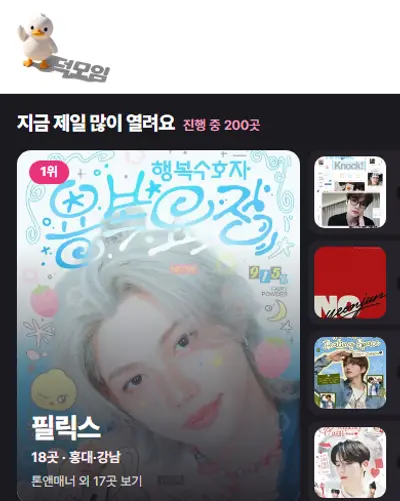
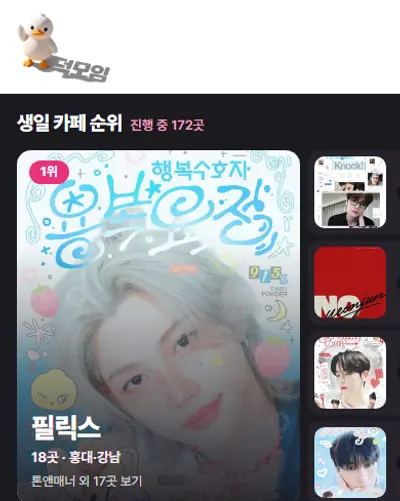
채팅 입력칸을 화면 맨 아래에 붙이고, 자기 댓글의 초대를 막는다
말이 쌓일수록 입력칸이 아래로 밀려났다. `sticky` 를 걸어뒀는데 아무
일도 안 하고 있었다 — 스크롤 컨테이너가 문서 자체라 붙을 자리가 없다.

PageShell 에 `fill` 을 뒀다. 켜면 화면 높이에 가두고 안쪽 한 칸만
스크롤시킨다. 채팅에서는 말풍선 칸(.croom)이 그 한 칸이고, 입력칸은
그냥 마지막 칸으로 두면 늘 맨 아래에 남는다. sticky 는 뗐다 — 하는
일 없이 z-index 만 남아 시트 위로 뜨는 사고를 만든다.

자기 댓글에도 「초대」 가 붙어 있었다. 자기를 자기 방에 부를 수는 없다.
서버가 CHAT 액션을 내려주기 전까지는 EDIT 이 오는 것을 내 댓글로 보고
막는다.

Changed region(s): [[0.78, 0.6587, 0.99, 1.0], [0.03, 0.2096, 0.66, 0.2695]]

diff --git a/src/app/ui.css b/src/app/ui.css
@@ -3388,6 +3388,31 @@
   min-height: 46vh;
 }
 
+/* 화면 높이에 가둔 껍데기. 채팅이 쓴다.
+
+   기본 shell 은 min-height 라 내용만큼 늘어나고, 그러면 문서 전체가
+   스크롤 컨테이너가 된다. 그 안에서 입력칸을 sticky 로 붙여도 말이
+   쌓일수록 아래로 밀려난다. 높이를 못박아 안쪽 한 칸만 스크롤시킨다 */
+.shell--fill { height: 100dvh; min-height: 0; overflow: hidden; }
+.shell--fill .shell__body {
+  flex: 1;
+  min-height: 0;
+  display: flex;
+  flex-direction: column;
+  overflow: hidden;
+}
+/* 스크롤되는 것은 말풍선 칸 하나뿐이다 */
+.shell--fill .croom {
+  flex: 1;
+  min-height: 0;
+  overflow-y: auto;
+  /* 손을 떼도 관성 스크롤이 이어지게 한다. iOS 에서 없으면 뚝 선다 */
+  -webkit-overflow-scrolling: touch;
+  /* 아래에서 쌓이는 목록이라 스크롤 위치를 끝에 붙여 둔다.
+     새 말이 와도 읽던 자리가 안 튄다 */
+  overscroll-behavior: contain;
+}
+
 /* 날짜가 바뀌는 자리. 없으면 어제 대화와 오늘 대화가 이어져 보인다 */
 .chat__day { display: flex; justify-content: center; margin: 12px 0 10px; }
 .chat__day span {
@@ -3468,10 +3493,14 @@
    댓글과 다른 자리다. 댓글은 읽는 글의 끝이지만 채팅은 읽는 내내
    쓰는 자리라 화면 아래에 붙어 따라다녀야 한다.
    ------------------------------------------------------- */
+/* 입력칸.
+
+   sticky 를 뗐다. shell--fill 안에서는 스크롤되는 칸이 위(.croom)
+   하나뿐이라, 이 줄은 그냥 마지막 칸으로 두면 늘 화면 맨 아래에
+   남는다. sticky 로 두면 컨테이너가 스크롤되지 않아 아무 일도 안 하고,
+   대신 z-index 만 남아 시트 위로 뜨는 사고가 난다 */
 .cwrite {
-  position: sticky;
-  bottom: 0;
-  z-index: 20;
+  flex: 0 0 auto;
   display: flex;
   align-items: flex-end;
   gap: 8px;

diff --git a/src/components/ui/PageShell.tsx b/src/components/ui/PageShell.tsx
@@ -12,18 +12,27 @@
 import type { ReactNode } from 'react'
 import { useRouter } from 'next/navigation'
 
-export function PageShell({ title, right, children, onBack }: {
+export function PageShell({ title, right, children, onBack, fill }: {
   /** 헤더 가운데 줄. 스크롤과 상관없이 계속 보인다 */
   title?: string
   right?: ReactNode
   children: ReactNode
   /** 안 주면 브라우저 뒤로가기 */
   onBack?: () => void
+  /**
+   * 화면 높이에 가둔다. 채팅처럼 **안쪽 한 칸만 스크롤되어야** 하는
+   * 화면이 쓴다.
+   *
+   * 기본은 문서가 통째로 늘어나는 구조라, 채팅에서는 말이 쌓일수록
+   * 입력칸이 아래로 밀려난다. `sticky` 로는 안 잡힌다 — 스크롤
+   * 컨테이너가 문서 자체이기 때문이다.
+   */
+  fill?: boolean
 }) {
   const router = useRouter()
 
   return (
-    <div className="shell">
+    <div className={`shell${fill ? ' shell--fill' : ''}`}>
       <header className="shell__bar">
         <button
           type="button"

diff --git a/src/app/w4871/p/[id]/PostDetail.tsx b/src/app/w4871/p/[id]/PostDetail.tsx
@@ -589,7 +589,10 @@ export default function PostDetail({ post, comments, hostId }: {
                         이유다 (alerts/Alerts.tsx). 채팅 API 가 붙으면
                         이 조건을 지운다
                       */}
-                      {!USE_API && (
+                      {/* 자기 자신은 부를 수 없다. EDIT 이 온다는 것이 곧 내
+                          댓글이라는 뜻이다 — 서버가 CHAT 을 내려주면 그쪽으로
+                          판정이 넘어간다 */}
+                      {!USE_API && !c.availableActions.includes('EDIT') && (
                         <button onClick={() => setAsk({ k: 'chat', id: c.id })}>
                           {isHost ? '초대' : '채팅하기'}
                         </button>

diff --git a/src/app/w4871/chat/[roomId]/ChatRoom.tsx b/src/app/w4871/chat/[roomId]/ChatRoom.tsx
@@ -101,6 +101,7 @@ export default function ChatRoom({ roomId }: { roomId: string }) {
 
   return (
     <PageShell
+      fill
       /* 단체는 사람 이름을 못 쓴다. 글 제목이 곧 방 이름이다 —
          방이 글 하나에 하나라서 그것이 가장 짧게 구분된다 */
       title={group ? room.postTitle : room.partner.nickname}
